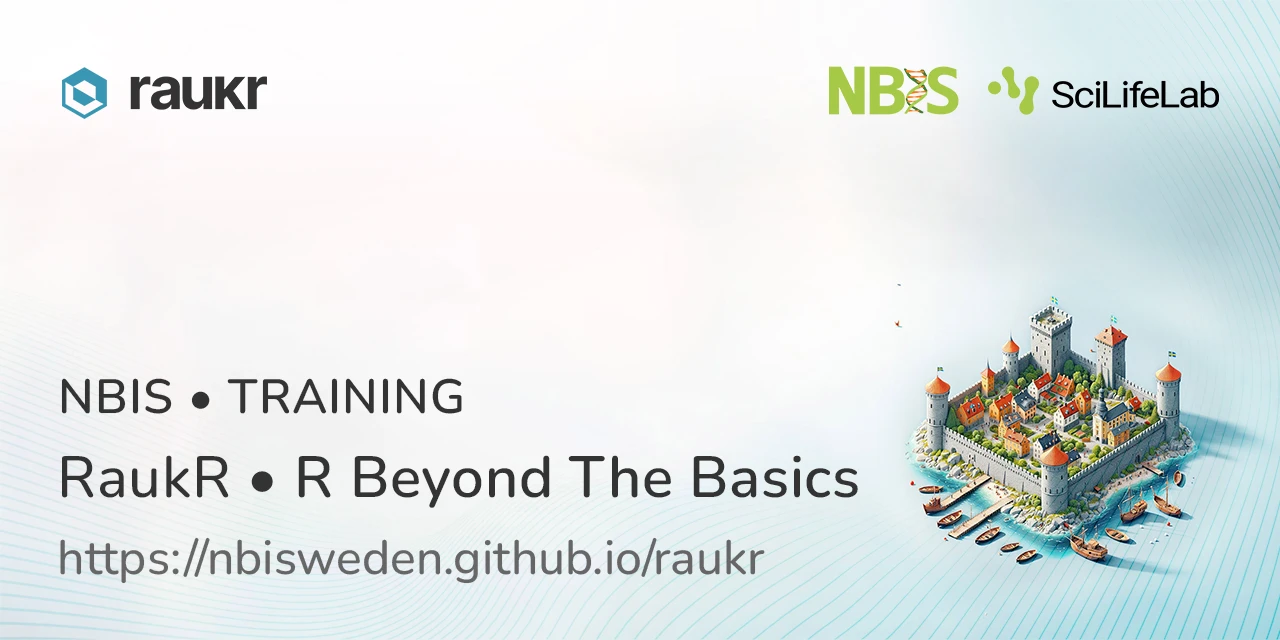
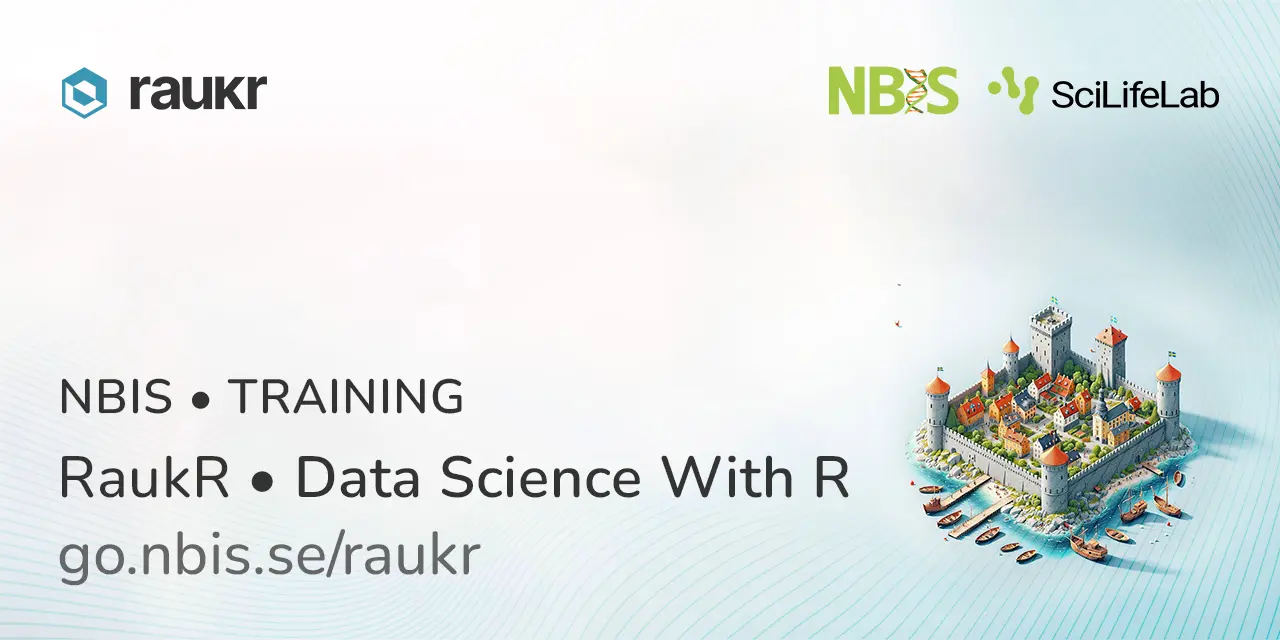
Changed tagline to data science with r

Changed region(s): [[0.0312, 0.8438, 0.5938, 0.9375], [0.2188, 0.6875, 0.6875, 0.7812]]

diff --git a/README.md b/README.md
@@ -1,4 +1,4 @@
-# Raukr • R Beyond The Basics  
+# Raukr • Data Science with R  
 [![ci_badge](https://github.com/NBISweden/raukr/workflows/deploy/badge.svg)](https://github.com/NBISweden/raukr/actions?workflow=deploy)  [![linkcheck_badge](https://github.com/NBISweden/raukr/workflows/linkcheck/badge.svg)](https://github.com/NBISweden/raukr/actions?workflow=linkcheck)  
 
 **Landing page for RaukR NBIS workshop**
@@ -7,4 +7,4 @@
 
 ---
 
-2025 NBIS
+2026 NBIS
